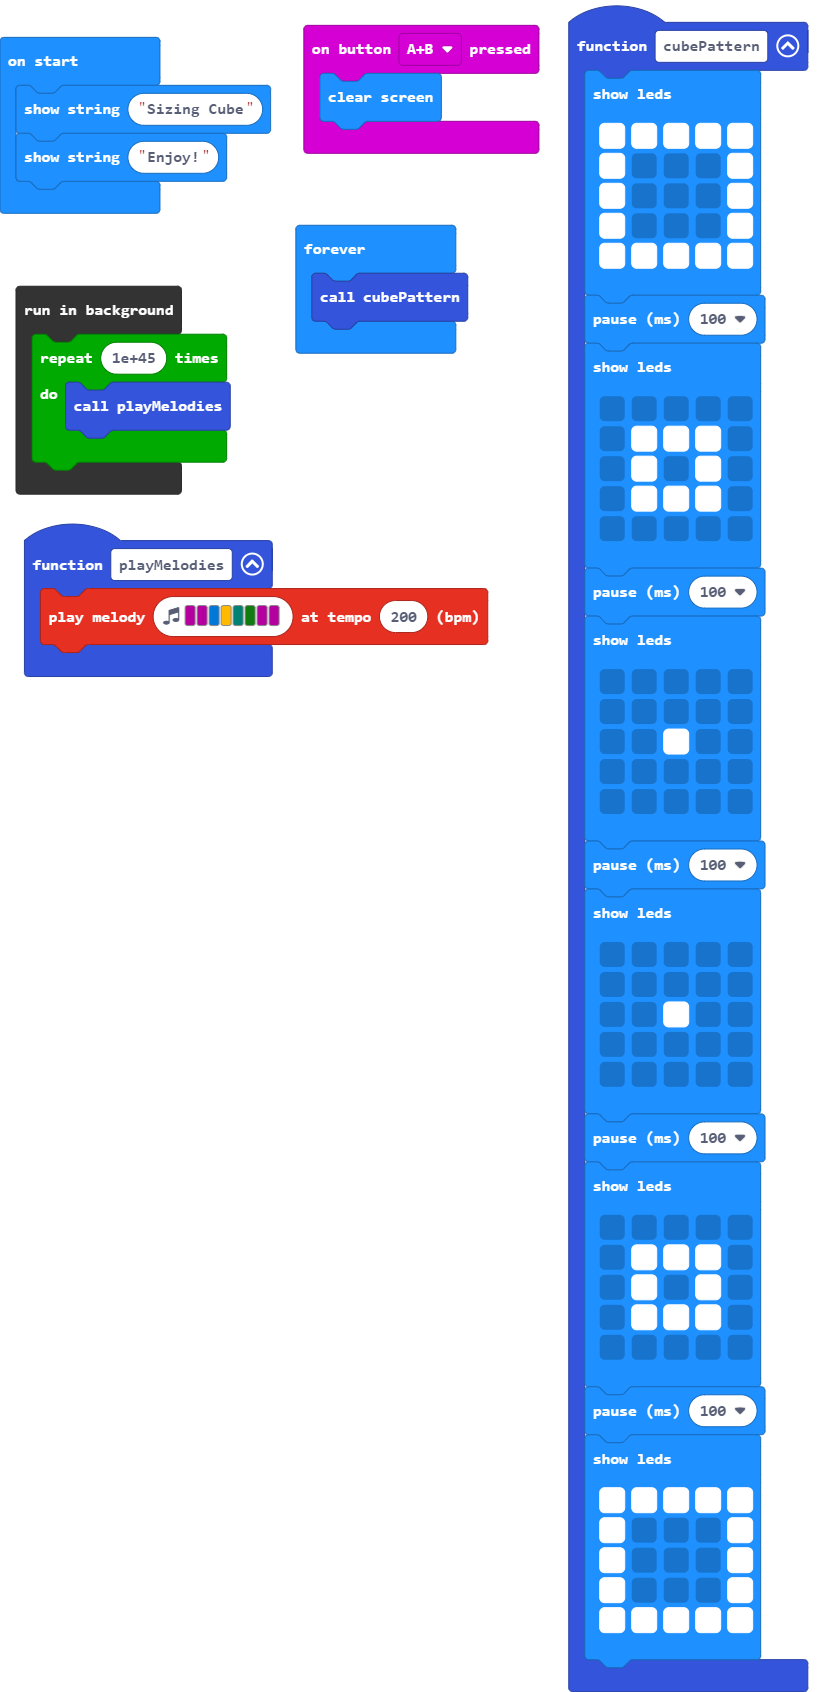
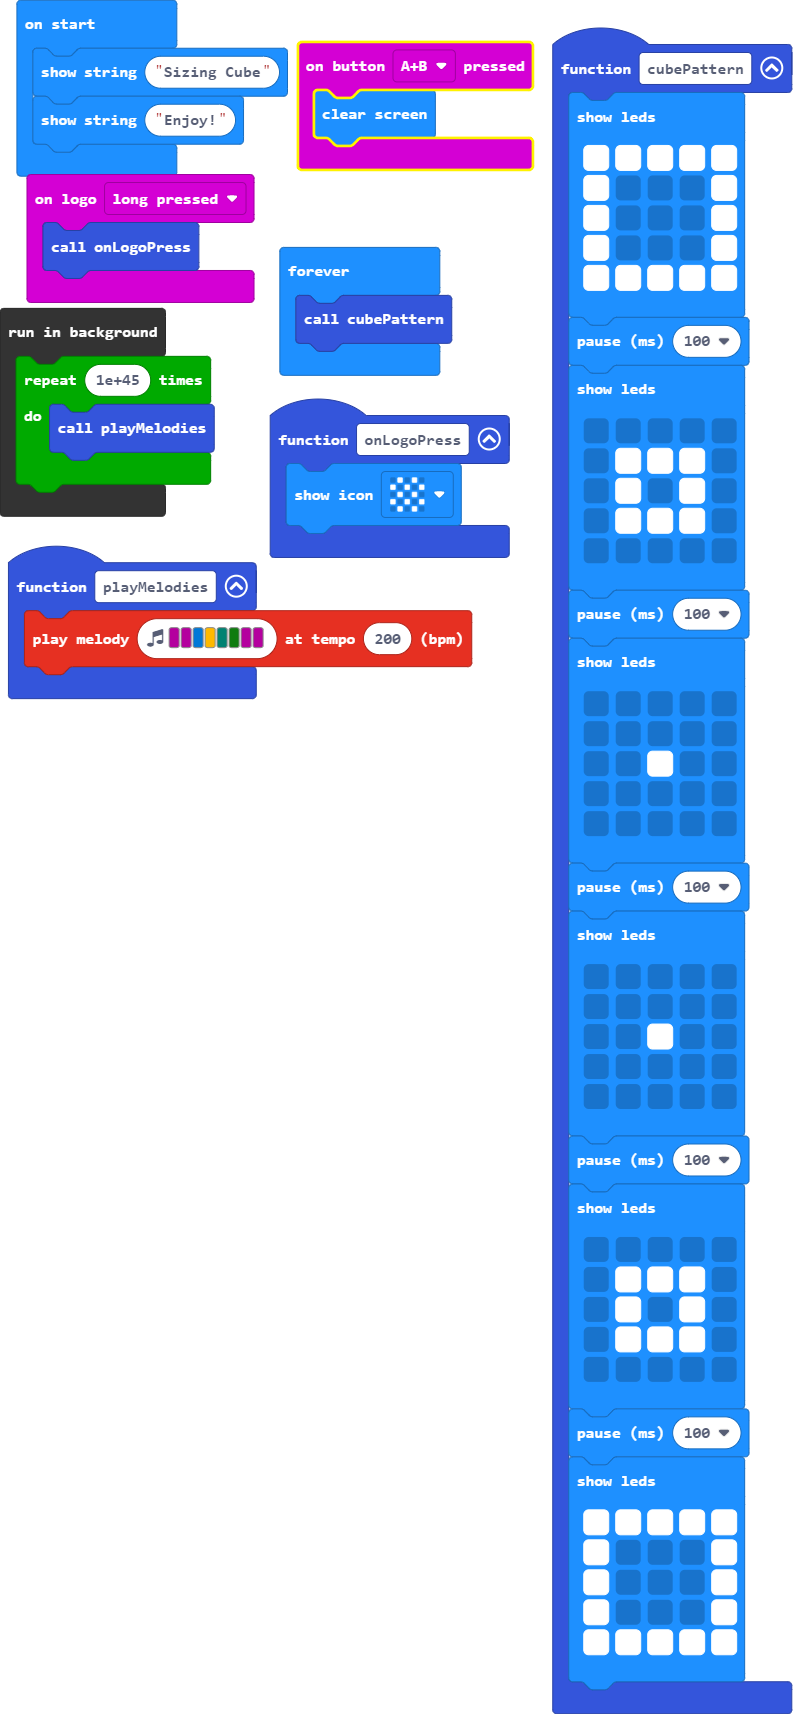
Update main.blocks, main.ts

Changed region(s): [[0.0, 0.0, 0.9988, 1.0]]

diff --git a/main.ts b/main.ts
@@ -1,3 +1,6 @@
+input.onLogoEvent(TouchButtonEvent.LongPressed, function () {
+    onLogoPress()
+})
 function cubePattern () {
     basic.showLeds(`
         # # # # #
@@ -49,6 +52,9 @@ function cubePattern () {
 }
 function playMelodies () {
     music.playMelody("C C E A F G C C ", 200)
+}
+function onLogoPress () {
+    basic.showIcon(IconNames.Chessboard)
 }
 input.onButtonPressed(Button.AB, function () {
     basic.clearScreen()
